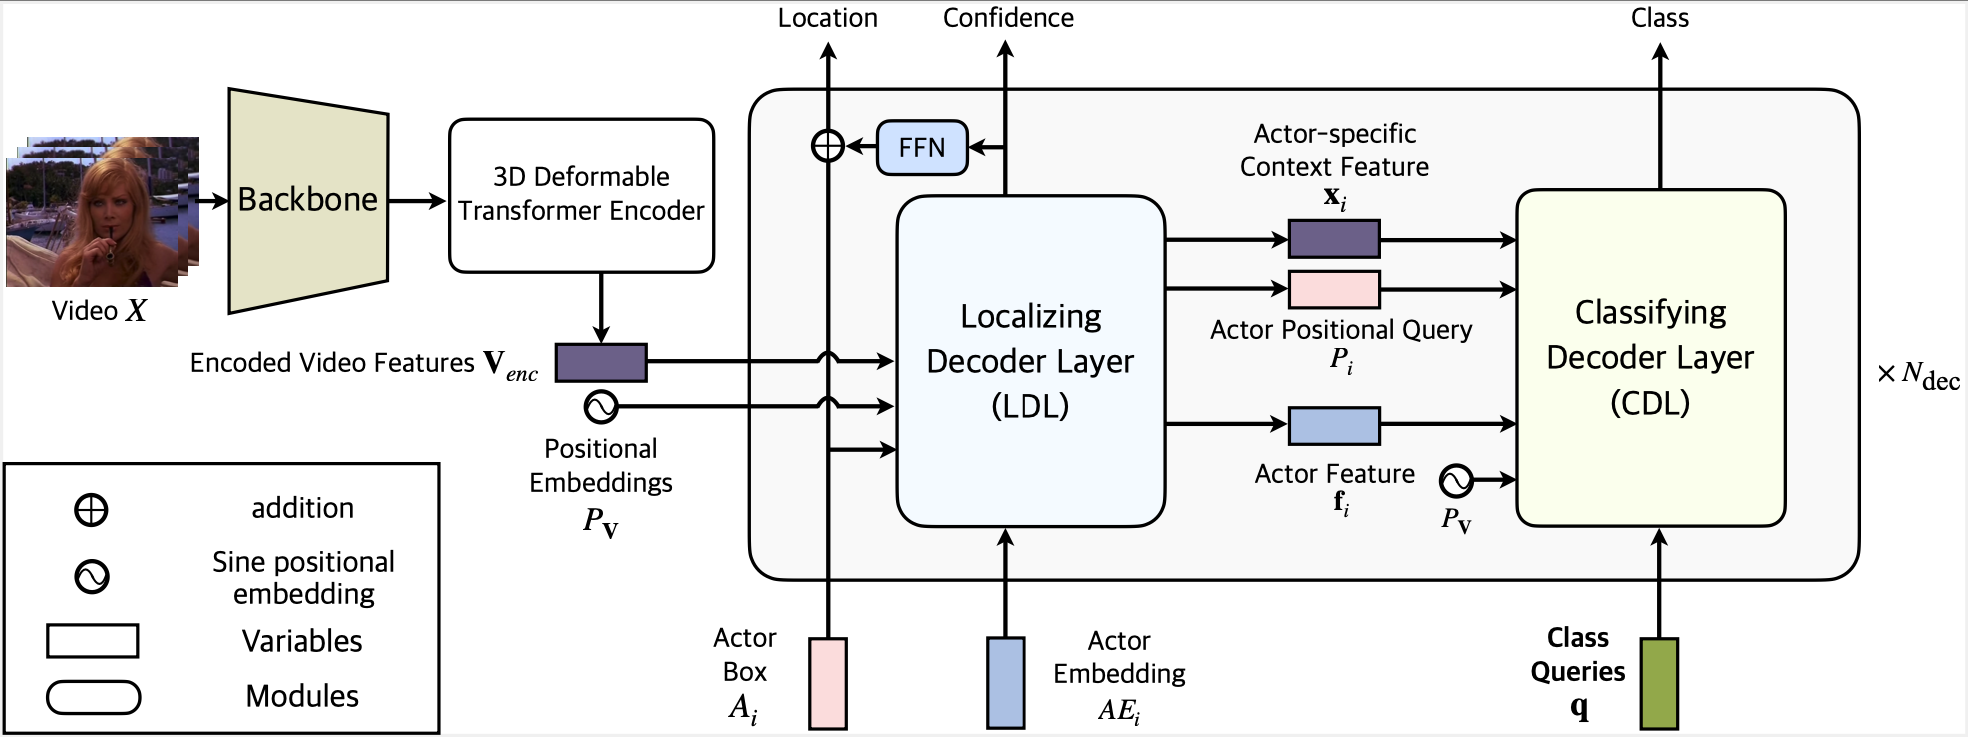
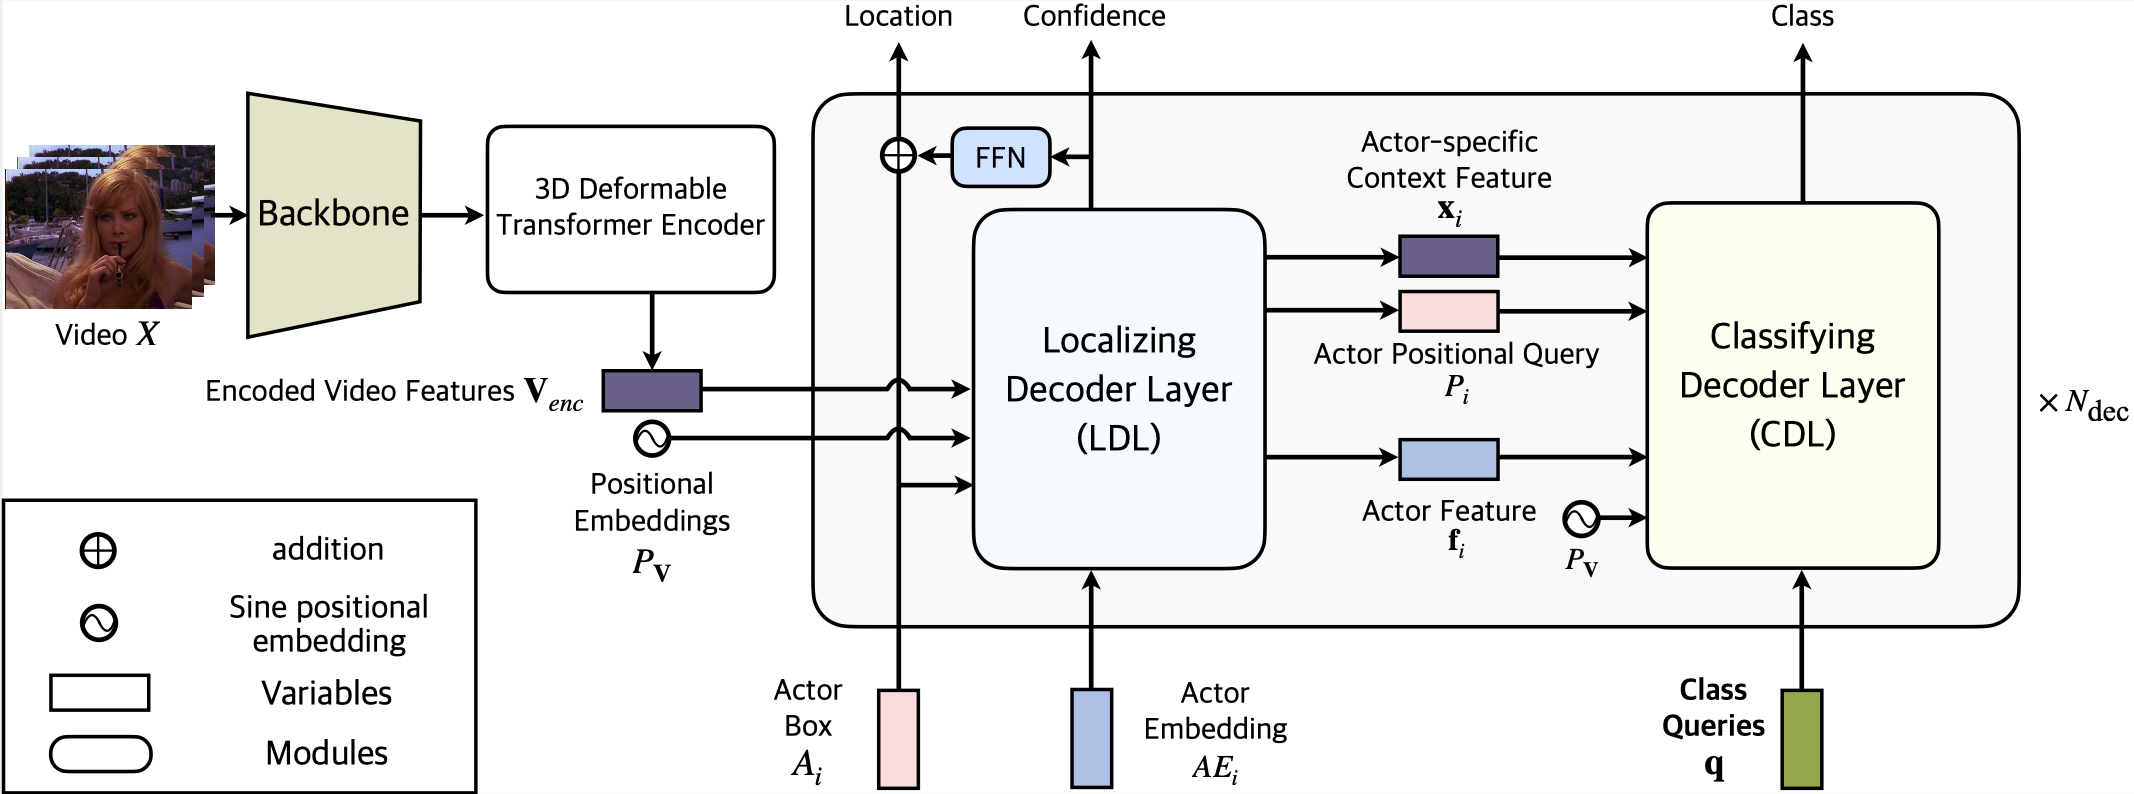
img edit

diff --git a/index.html b/index.html
@@ -186,13 +186,13 @@
 <!-- End paper abstract -->
 
 <!-- Model Architecture -->
-<section class="section hero is-small">
+<section class="section hero is-big">
   <div class="container is-max-desktop">
     <div class="columns is-centered has-text-centered">
       <div class="column is-four-fifths">
         <h2 class="title is-3">Model Architecture</h2>
         <div class="hero-body">
-          <img src="static/images/model_architecture.png" width="100%" alt="Italian Trulli" />
+          <img src="static/images/model_architecture.png" width="100%" alt="architecture" />
           <iframe
                 src="static/images/overview5.pdf"
                 width="100%"
